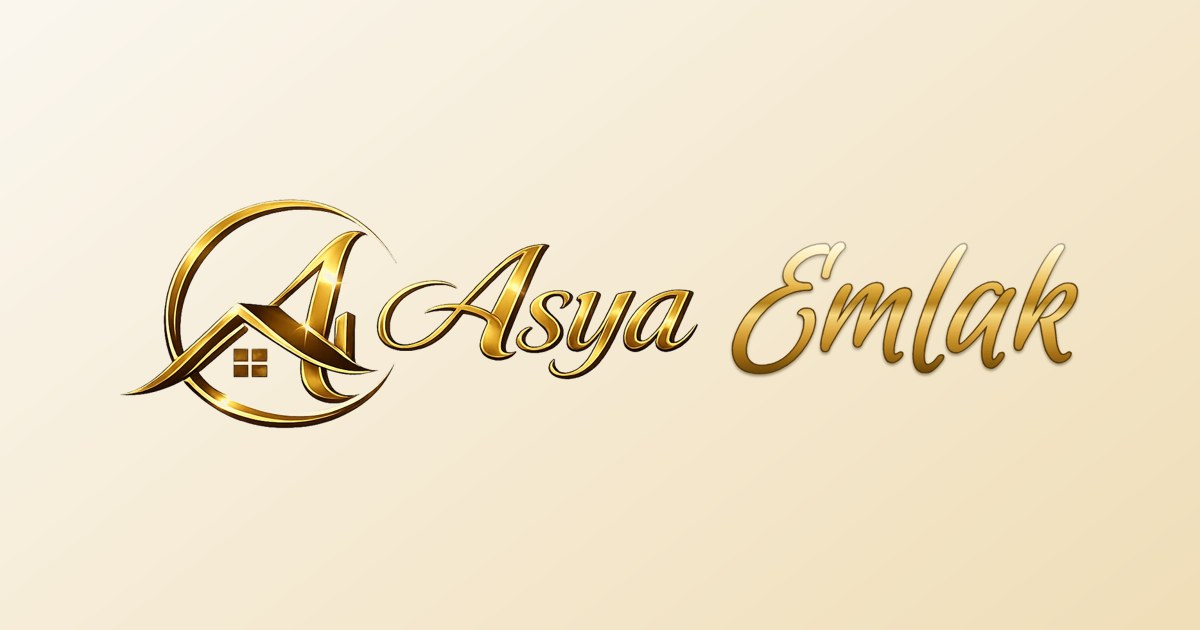
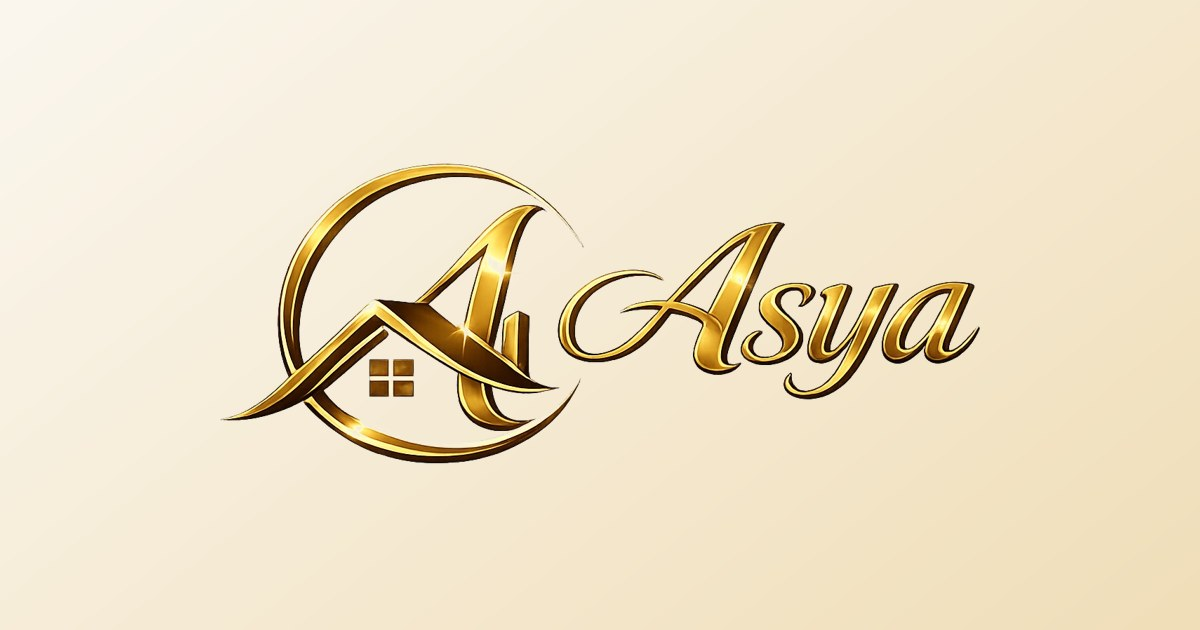
Logoyu eski haline döndür
Claude-Session: https://claude.ai/code/session_01DLXAuedbrzhHCTaYKGXSdu

Changed region(s): [[0.0925, 0.2413, 0.925, 0.754], [0.4625, 0.6333, 0.4933, 0.6635]]

diff --git a/public/shell.html b/public/shell.html
@@ -8,9 +8,9 @@
 <meta name="theme-color" content="#15110b" media="(prefers-color-scheme: dark)">
 <link rel="preconnect" href="https://fonts.googleapis.com"><link rel="preconnect" href="https://fonts.gstatic.com" crossorigin>
 <link rel="stylesheet" href="https://fonts.googleapis.com/css2?family=Cormorant+Garamond:wght@500;600&family=Manrope:wght@400;500;600;700&display=swap">
-<link rel="stylesheet" href="/style.css?v=3">
+<link rel="stylesheet" href="/style.css?v=4">
 </head><body>
-<nav class="top" id="nav"><a class="logo" href="/" aria-label="Asya Emlak ana sayfa"><img src="/logo-nav.webp" alt="Asya Emlak" width="183" height="44"></a><div class="nl" id="nl"><a class="l" href="/">Ana sayfa</a><a class="l" href="/ilanlar">İlanlar</a><a class="l" href="/hakkimizda">Hakkımızda</a><a class="l" href="/iletisim">İletişim</a><a class="l" id="pl" href="/panel" hidden>İlanlarım</a><a class="l" id="al" href="/yonetim" hidden>Kullanıcılar</a><a class="l" id="sl" href="/ayarlar" hidden>Site ayarları</a></div><div class="na"><a class="l" id="fl" href="/favoriler" aria-label="Favoriler"><svg viewBox="0 0 24 24" fill="none" stroke="currentColor" stroke-width="2"><path d="M12 20.5s-7.5-4.6-9.3-9.4C1.5 7.8 3.8 4.5 7.2 4.5c2 0 3.6 1.1 4.8 2.8 1.2-1.7 2.8-2.8 4.8-2.8 3.4 0 5.7 3.3 4.5 6.6-1.8 4.8-9.3 9.4-9.3 9.4z"/></svg><span id="fcn"></span></a><a class="l" id="gl" href="/giris">Giriş</a><a class="l" id="hl" href="/hesap" hidden>Hesabım</a><button type="button" id="mb" aria-label="Menü" aria-expanded="false" aria-controls="nl"><svg viewBox="0 0 24 24" fill="none" stroke="currentColor" stroke-width="2" stroke-linecap="round"><path d="M4 7h16M4 12h16M4 17h10"/></svg></button></div></nav>
+<nav class="top" id="nav"><a class="logo" href="/" aria-label="Asya Emlak ana sayfa"><img src="/logo-nav.webp" alt="Asya Emlak" width="110" height="44"></a><div class="nl" id="nl"><a class="l" href="/">Ana sayfa</a><a class="l" href="/ilanlar">İlanlar</a><a class="l" href="/hakkimizda">Hakkımızda</a><a class="l" href="/iletisim">İletişim</a><a class="l" id="pl" href="/panel" hidden>İlanlarım</a><a class="l" id="al" href="/yonetim" hidden>Kullanıcılar</a><a class="l" id="sl" href="/ayarlar" hidden>Site ayarları</a></div><div class="na"><a class="l" id="fl" href="/favoriler" aria-label="Favoriler"><svg viewBox="0 0 24 24" fill="none" stroke="currentColor" stroke-width="2"><path d="M12 20.5s-7.5-4.6-9.3-9.4C1.5 7.8 3.8 4.5 7.2 4.5c2 0 3.6 1.1 4.8 2.8 1.2-1.7 2.8-2.8 4.8-2.8 3.4 0 5.7 3.3 4.5 6.6-1.8 4.8-9.3 9.4-9.3 9.4z"/></svg><span id="fcn"></span></a><a class="l" id="gl" href="/giris">Giriş</a><a class="l" id="hl" href="/hesap" hidden>Hesabım</a><button type="button" id="mb" aria-label="Menü" aria-expanded="false" aria-controls="nl"><svg viewBox="0 0 24 24" fill="none" stroke="currentColor" stroke-width="2" stroke-linecap="round"><path d="M4 7h16M4 12h16M4 17h10"/></svg></button></div></nav>
 <main id="app"></main>
-<footer class="ftr"><div class="ftri"><div><img src="/logo.png" alt="Asya Emlak" width="216" height="52" loading="lazy"><p id="fts">Satılık ve kiralık konut, villa ve arsa ilanları.</p></div><div><h4>Site</h4><ul><li><a href="/ilanlar">İlanlar</a></li><li><a href="/favoriler">Favorilerim</a></li><li><a href="/hakkimizda">Hakkımızda</a></li><li><a href="/iletisim">İletişim</a></li></ul></div><div><h4>İletişim</h4><ul id="ftc"><li><a href="/iletisim">İletişim bilgileri</a></li></ul></div></div><div class="ftrb">© <span id="fty">2026</span> Asya Emlak. Tüm hakları saklıdır.</div></footer>
-<script src="/app.js?v=3" defer></script></body></html>
+<footer class="ftr"><div class="ftri"><div><img src="/logo.png" alt="Asya Emlak" width="130" height="52" loading="lazy"><p id="fts">Satılık ve kiralık konut, villa ve arsa ilanları.</p></div><div><h4>Site</h4><ul><li><a href="/ilanlar">İlanlar</a></li><li><a href="/favoriler">Favorilerim</a></li><li><a href="/hakkimizda">Hakkımızda</a></li><li><a href="/iletisim">İletişim</a></li></ul></div><div><h4>İletişim</h4><ul id="ftc"><li><a href="/iletisim">İletişim bilgileri</a></li></ul></div></div><div class="ftrb">© <span id="fty">2026</span> Asya Emlak. Tüm hakları saklıdır.</div></footer>
+<script src="/app.js?v=4" defer></script></body></html>

diff --git a/public/style.css b/public/style.css
@@ -62,7 +62,7 @@ table{width:100%;border-collapse:collapse}td,th{padding:11px 8px;border-bottom:1
 nav.top{position:sticky;top:0;z-index:20;display:flex;align-items:center;gap:20px;height:70px;padding:0 max(20px,calc((100vw - 1200px)/2 + 24px));padding-top:env(safe-area-inset-top,0px);box-sizing:content-box;border-bottom:1px solid color-mix(in srgb,var(--ln) 70%,transparent)}
 nav.top::before{content:"";position:absolute;inset:0;z-index:-1;background:color-mix(in srgb,var(--bg) 86%,transparent);backdrop-filter:saturate(1.4) blur(16px);-webkit-backdrop-filter:saturate(1.4) blur(16px)}
 nav.top{isolation:isolate}
-.logo img{height:44px;width:auto;display:block}
+.logo img{height:42px;width:auto;display:block}
 .nl{display:flex;align-items:center;gap:4px;flex:1}
 .nl a.l{padding:8px 12px;border-radius:10px;color:var(--mu);font-weight:500;font-size:15px}
 .nl a.l:hover{color:var(--tx);background:var(--champ)}
@@ -76,7 +76,7 @@ nav.top{isolation:isolate}
 #mb svg{width:22px;height:22px}
 @media(max-width:920px){
   nav.top{gap:10px;height:62px;padding-left:16px;padding-right:12px}
-  .logo img{height:36px}
+  .logo img{height:34px}
   #mb{display:grid}
   .nl{position:fixed;left:0;right:0;top:calc(62px + env(safe-area-inset-top,0px));bottom:0;flex-direction:column;align-items:stretch;gap:2px;padding:12px 16px calc(24px + env(safe-area-inset-bottom,0px));background:var(--bg);opacity:0;visibility:hidden;transform:translateY(-8px);transition:opacity .2s,transform .2s,visibility .2s;overflow:auto}
   nav.open .nl{opacity:1;visibility:visible;transform:none}
@@ -172,7 +172,7 @@ nav.top{isolation:isolate}
 /* alt bilgi */
 footer.ftr{margin-top:88px;background:linear-gradient(var(--bg),var(--pn2) 120px)}
 .ftri{max-width:1200px;margin:0 auto;padding:44px 24px 20px;display:grid;grid-template-columns:1.4fr 1fr 1fr;gap:32px}
-.ftr img{height:52px;width:auto}.ftr p{color:var(--mu);font-size:14px;margin:12px 0 0;max-width:36ch}
+.ftr img{height:48px;width:auto}.ftr p{color:var(--mu);font-size:14px;margin:12px 0 0;max-width:36ch}
 .ftr h4{margin:4px 0 12px;font-size:13px;color:var(--mu);font-weight:600}
 .ftr ul{list-style:none;margin:0;padding:0;display:grid;gap:8px;font-size:14.5px}.ftr ul a:hover{color:var(--aud)}
 .ftrb{max-width:1200px;margin:0 auto;padding:16px 24px 28px;color:var(--mu);font-size:13px;border-top:1px solid var(--ln)}
